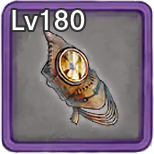
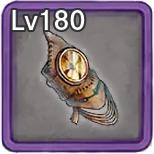
updated unit descriptions

diff --git a/data/generated-content.js b/data/generated-content.js
@@ -519,7 +519,7 @@ const GENERAL_UNITS = [
                 ]
             }
         ],
-        "desc": "<p>Summer Amleth's main support comes from her S1, which decreases enemies' P.DEF by 25% and 50% in main quest and         tower respectively. She has the added benefit of being able to take a certain amount of hits without dying         thanks to her passive The Queen's Resolve.</p>\n<p><strong>Speed Tuning — </strong> Since she is a debuffer, you want her to act before your main DPS.</p>"
+        "desc": "<p>Summer Amleth's main support comes from her S1, which decreases enemies' P.DEF by 25% and 50% in main quest and tower respectively. She has the added benefit of being able to take a certain amount of hits without dying thanks to her passive The Queen's Resolve.</p>\n<p>The shown team with Tama is mainly meant for tower, it does not work as well as the version with Moineau but will  still allow you to do significant amounts of damage when combining the debuffs from Cordie, Tama and Summer Amleth.</p>\n<p><strong>Speed Tuning — </strong> Since she is a debuffer, you want her to act before your main DPS.</p>"
     },
     {
         "id": "Xamour",
@@ -910,7 +910,7 @@ const HONORABLE_MENTIONS = [
             }
         ],
         "teams": [],
-        "desc": "<p>Placeholder text</p>"
+        "desc": "<p>When Eureka is defeated, she grants the highest attack ally a 50% attack buff when this is an Azure ally. She has an additional support effect where she can cleanse herself and the 2 highest attack allies when Eureka is debuffed. While neither of these effects are particularly powerful (given that you are forced to run an Azure DPS, i.e. Florence), she can be a good budget support option in the early game given that she does not require her UW or extra copies.</p>\n<p><strong>Speed Tuning —</strong> No speed tuning is required</p>"
     },
     {
         "id": "Evelyn",
@@ -918,6 +918,11 @@ const HONORABLE_MENTIONS = [
         "role": "Support",
         "scalable": true,
         "weapons": [
+            {
+                "level": "EvelynSSR",
+                "tier": "required",
+                "description": "todo"
+            },
             {
                 "level": "EvelynUR",
                 "tier": "optional",
@@ -929,10 +934,15 @@ const HONORABLE_MENTIONS = [
                 "id": "Florence",
                 "name": "Florence",
                 "badge": "dps"
+            },
+            {
+                "id": "Cordie",
+                "name": "Cordie",
+                "badge": "dps"
             }
         ],
         "teams": [],
-        "desc": "<p>Placeholder text</p>"
+        "desc": "<p>Evenlyn's S1 increases the attack and chance to hit of the highest attack ally with 50%. A useful but relatively barebones effect that is mainly useful early on in the game when you do not have access to many other supports.</p>\n<p><strong>Speed Tuning —</strong> As she is an active buffer, you want her to move before your main DPS.</p>"
     },
     {
         "id": "Matilda",
@@ -955,10 +965,15 @@ const HONORABLE_MENTIONS = [
                 "id": "Florence",
                 "name": "Florence",
                 "badge": "dps"
+            },
+            {
+                "id": "Cordie",
+                "name": "Cordie",
+                "badge": "dps"
             }
         ],
         "teams": [],
-        "desc": "<p>Placeholder text</p>"
+        "desc": "<p>Evenlyn's S1 increases the attack, crit rate and chance to hit the highest attack ally with 50%. A useful but relatively  barebones effect that is mainly useful early on in the game when you do not have access to many other supports. She is  slightly better than Evelyn because she additionally buffs crit rate compared to Evenlyn.</p>\n<p><strong>Speed Tuning —</strong> As she is an active buffer, you want her to move before your main DPS.</p>"
     },
     {
         "id": "Kobel",
@@ -985,7 +1000,7 @@ const HONORABLE_MENTIONS = [
             }
         ],
         "teams": [],
-        "desc": "<p>Placeholder text</p>"
+        "desc": "<p>Kobel increases the HP and HP drain of adjacent allies (no UW) or the entire team (UR UW) by 20% of her own HP. She can additionally inflict Enfeeble on enemies which helps with tanking hits. However, her HP buffing is not as good as Milla's because it uses her own HP as a threshold, which requires you to have her at a high rarity to be really useful. Stacking her with Milla is not a good option in most cases due to a lack of team slots.</p>\n<p><strong>Speed Tuning —</strong> Since you want to inflic Enfeeble before the enemy gets to act, you want Kobel to be faster than all enemies when possible.</p>"
     },
     {
         "id": "XLuna",
@@ -1006,7 +1021,7 @@ const HONORABLE_MENTIONS = [
             }
         ],
         "teams": [],
-        "desc": "<p>Placeholder text</p>"
+        "desc": "<p>Winter Luna provides the highest attack ally with 4 barriers every 8 turns if they are an Emerald or Crimson ally. Her S1 additionally inflicts Enfeeble on 3 to 5 enemies depending on whether you have her UW.</p>"
     },
     {
         "id": "Yuni",
@@ -1037,7 +1052,7 @@ const HONORABLE_MENTIONS = [
         "weapons": [],
         "pairs": [],
         "teams": [],
-        "desc": "<p>Placeholder text</p>"
+        "desc": "<p>Rusalka grants 5 barriers to herself and 1 to every ally when she is defeated. This is useful as a one time increase in  survivability, but she gets outdone by Meria, who can provide barriers every turn without requiring her to be defeated.</p>\n<p><strong>Speed Tuning —</strong> No speed tuning is required</p>"
     },
     {
         "id": "Regina",
@@ -1059,7 +1074,7 @@ const HONORABLE_MENTIONS = [
             }
         ],
         "teams": [],
-        "desc": "<p>Placeholder text</p>"
+        "desc": "<p>Regina increases the HP of the ally with the highest attack by 50%, and can additionally increase the damage taken by all enemies by 10%. It is mainly the HP buff we are interested in, as this provides Fia with a sizable increase in HP. Out of the units in this section, Regina provides the biggest HP buff to Fia. However, her soul makes it harder to slot her in, as you cannot get any soul bonuses with the rest of your team. Because of this Milla will usually be the better option if you simply want to increase Fia's HP.</p>\n<p><strong>Speed Tuning —</strong> No speed tuning is required</p>"
     },
     {
         "id": "Paladea",
@@ -1084,8 +1099,34 @@ const HONORABLE_MENTIONS = [
                 "badge": "dps"
             }
         ],
-        "teams": [],
-        "desc": "<p>Placeholder text</p>"
+        "teams": [
+            {
+                "label": null,
+                "slots": [
+                    {
+                        "id": "Florence",
+                        "name": "Florence"
+                    },
+                    {
+                        "id": "Xamour",
+                        "name": "Winter Amour"
+                    },
+                    {
+                        "id": "Cordie",
+                        "name": "Cordie"
+                    },
+                    {
+                        "id": "Paladea",
+                        "name": "Paladea"
+                    },
+                    {
+                        "id": "LunaLR5",
+                        "name": "Luna"
+                    }
+                ]
+            }
+        ],
+        "desc": "<p>Paladea is mostly useful much later on in the game when you start to encounter enemies with a lot of annoying buffs,  which are mostly Amber units. Her S2 can turn from Bullet Storm into Black Bullet, in which case it can dispel 2 buffs  per hit, and hits for a total of 4 times. This effect will allow you to dispel most buffs that need to be dispelled.  The main issue is that is can be hard to trigger to condition to use Black Bullet, which is to have crit a total of 20 times or more across all units in your team before Paladea uses her S2. The only team where this is realistically possible is the team listed in the team examples where you use a double DPS setup. LR5 Lunalynn here is preferred over lower rarities due to the fact that her LR UW grants extra crit rate.</p>\n<p>If all conditions are met to use Black Bullet, Paladea herself can also do a decent amount of damage if the enemy she is attacking is debuffed by Cordie, even at very low rarity. Because of this it is recommended to run her with another max level weapon if you cannot afford or want her own UW.</p>\n<p><strong>Speed Tuning —</strong> Paladea's S1 debuffs the enemies' crit resistance, so you want her to move before either of your DPSs and Lunalynn</p>"
     },
     {
         "id": "Fenny",
@@ -1106,7 +1147,7 @@ const HONORABLE_MENTIONS = [
             }
         ],
         "teams": [],
-        "desc": "<p>Placeholder text</p>"
+        "desc": "<p>Fenny increases the HP of the 2 allies with the lowest speed by 30%. This is the only useful effect she has and is only useful on Fia. This also requires her to have her UR UW, and she is completely outdone by Milla in her only support role. It is not recommended to pull her nor get her UW if you already have her, but if you already have both she is usable for this specific support role.</p>\n<p><strong>Speed Tuning —</strong> No speed tuning is required</p>"
     }
 ];
 

diff --git a/content/units/mention/Paladea.md b/content/units/mention/Paladea.md
@@ -14,6 +14,21 @@ pairs:
   - id: Cordie
     badge: dps
 teams:
+  - label:
+    slots: [Florence, Xamour, Cordie, Paladea, LunaLR5]
 ---
 
-Placeholder text
+Paladea is mostly useful much later on in the game when you start to encounter enemies with a lot of annoying buffs, 
+which are mostly Amber units. Her S2 can turn from Bullet Storm into Black Bullet, in which case it can dispel 2 buffs 
+per hit, and hits for a total of 4 times. This effect will allow you to dispel most buffs that need to be dispelled. 
+The main issue is that is can be hard to trigger to condition to use Black Bullet, which is to have crit a total of 20
+times or more across all units in your team before Paladea uses her S2. The only team where this is realistically
+possible is the team listed in the team examples where you use a double DPS setup. LR5 Lunalynn here is preferred over lower
+rarities due to the fact that her LR UW grants extra crit rate. 
+
+If all conditions are met to use Black Bullet, Paladea herself can also do a decent amount of damage if the enemy she is
+attacking is debuffed by Cordie, even at very low rarity. Because of this it is recommended to run her with another
+max level weapon if you cannot afford or want her own UW.
+
+**Speed Tuning —** Paladea's S1 debuffs the enemies' crit resistance, so you want her to move before either of your DPSs
+and Lunalynn

diff --git a/content/units/general/Samleth.md b/content/units/general/Samleth.md
@@ -24,7 +24,11 @@ teams:
 ---
 
 Summer Amleth's main support comes from her S1, which decreases enemies' P.DEF by 25% and 50% in main quest and
-        tower respectively. She has the added benefit of being able to take a certain amount of hits without dying
-        thanks to her passive The Queen's Resolve.
+tower respectively. She has the added benefit of being able to take a certain amount of hits without dying
+thanks to her passive The Queen's Resolve. 
 
-          **Speed Tuning — ** Since she is a debuffer, you want her to act before your main DPS.
+The shown team with Tama is mainly meant for tower, it does not work as well as the version with Moineau but will 
+still allow you to do significant amounts of damage when combining the debuffs from Cordie, Tama and Summer Amleth.
+
+
+**Speed Tuning — ** Since she is a debuffer, you want her to act before your main DPS.

diff --git a/content/units/mention/Evelyn.md b/content/units/mention/Evelyn.md
@@ -4,13 +4,21 @@ name: Evelyn
 role: Support
 scalable: true
 weapons:
+  - level: EvelynSSR
+    tier: required
+    description: todo
   - level: EvelynUR
     tier: optional
     description: todo
 pairs:
   - id: Florence
     badge: dps
+  - id: Cordie
+    badge: dps
 teams:
 ---
 
-Placeholder text
+Evenlyn's S1 increases the attack and chance to hit of the highest attack ally with 50%. A useful but relatively barebones
+effect that is mainly useful early on in the game when you do not have access to many other supports.
+
+**Speed Tuning —** As she is an active buffer, you want her to move before your main DPS.

diff --git a/content/units/mention/Kobel.md b/content/units/mention/Kobel.md
@@ -16,4 +16,10 @@ pairs:
 teams:
 ---
 
-Placeholder text
+Kobel increases the HP and HP drain of adjacent allies (no UW) or the entire team (UR UW) by 20% of her own HP. She can
+additionally inflict Enfeeble on enemies which helps with tanking hits. However, her HP buffing is not as good as Milla's
+because it uses her own HP as a threshold, which requires you to have her at a high rarity to be really useful. Stacking
+her with Milla is not a good option in most cases due to a lack of team slots. 
+
+**Speed Tuning —** Since you want to inflic Enfeeble before the enemy gets to act, you want Kobel to be faster than
+all enemies when possible.

diff --git a/content/units/mention/Matilda.md b/content/units/mention/Matilda.md
@@ -12,7 +12,13 @@ weapons:
 pairs:
   - id: Florence
     badge: dps
+  - id: Cordie
+    badge: dps
 teams:
 ---
 
-Placeholder text
+Evenlyn's S1 increases the attack, crit rate and chance to hit the highest attack ally with 50%. A useful but relatively 
+barebones effect that is mainly useful early on in the game when you do not have access to many other supports. She is 
+slightly better than Evelyn because she additionally buffs crit rate compared to Evenlyn.
+
+**Speed Tuning —** As she is an active buffer, you want her to move before your main DPS.

diff --git a/content/units/mention/Regina.md b/content/units/mention/Regina.md
@@ -13,4 +13,10 @@ pairs:
 teams:
 ---
 
-Placeholder text
+Regina increases the HP of the ally with the highest attack by 50%, and can additionally increase the damage taken
+by all enemies by 10%. It is mainly the HP buff we are interested in, as this provides Fia with a sizable increase in HP.
+Out of the units in this section, Regina provides the biggest HP buff to Fia. However, her soul makes it harder to slot
+her in, as you cannot get any soul bonuses with the rest of your team. Because of this Milla will usually be the better
+option if you simply want to increase Fia's HP.
+
+**Speed Tuning —** No speed tuning is required

diff --git a/content/units/mention/Eureka.md b/content/units/mention/Eureka.md
@@ -9,4 +9,9 @@ pairs:
 teams:
 ---
 
-Placeholder text
+When Eureka is defeated, she grants the highest attack ally a 50% attack buff when this is an Azure ally. She has an
+additional support effect where she can cleanse herself and the 2 highest attack allies when Eureka is debuffed. While
+neither of these effects are particularly powerful (given that you are forced to run an Azure DPS, i.e. Florence), she
+can be a good budget support option in the early game given that she does not require her UW or extra copies.
+
+**Speed Tuning —** No speed tuning is required

diff --git a/content/units/mention/Fenny.md b/content/units/mention/Fenny.md
@@ -13,4 +13,9 @@ pairs:
 teams:
 ---
 
-Placeholder text
+Fenny increases the HP of the 2 allies with the lowest speed by 30%. This is the only useful effect she has and is only
+useful on Fia. This also requires her to have her UR UW, and she is completely outdone by Milla in her only support role.
+It is not recommended to pull her nor get her UW if you already have her, but if you already have both she is usable
+for this specific support role. 
+
+**Speed Tuning —** No speed tuning is required

diff --git a/content/units/mention/Rusalka.md b/content/units/mention/Rusalka.md
@@ -7,4 +7,7 @@ pairs:
 teams:
 ---
 
-Placeholder text
+Rusalka grants 5 barriers to herself and 1 to every ally when she is defeated. This is useful as a one time increase in 
+survivability, but she gets outdone by Meria, who can provide barriers every turn without requiring her to be defeated.
+
+**Speed Tuning —** No speed tuning is required

diff --git a/content/units/mention/XLuna.md b/content/units/mention/XLuna.md
@@ -12,4 +12,6 @@ pairs:
 teams:
 ---
 
-Placeholder text
+
+Winter Luna provides the highest attack ally with 4 barriers every 8 turns if they are an Emerald or Crimson ally. Her
+S1 additionally inflicts Enfeeble on 3 to 5 enemies depending on whether you have her UW.